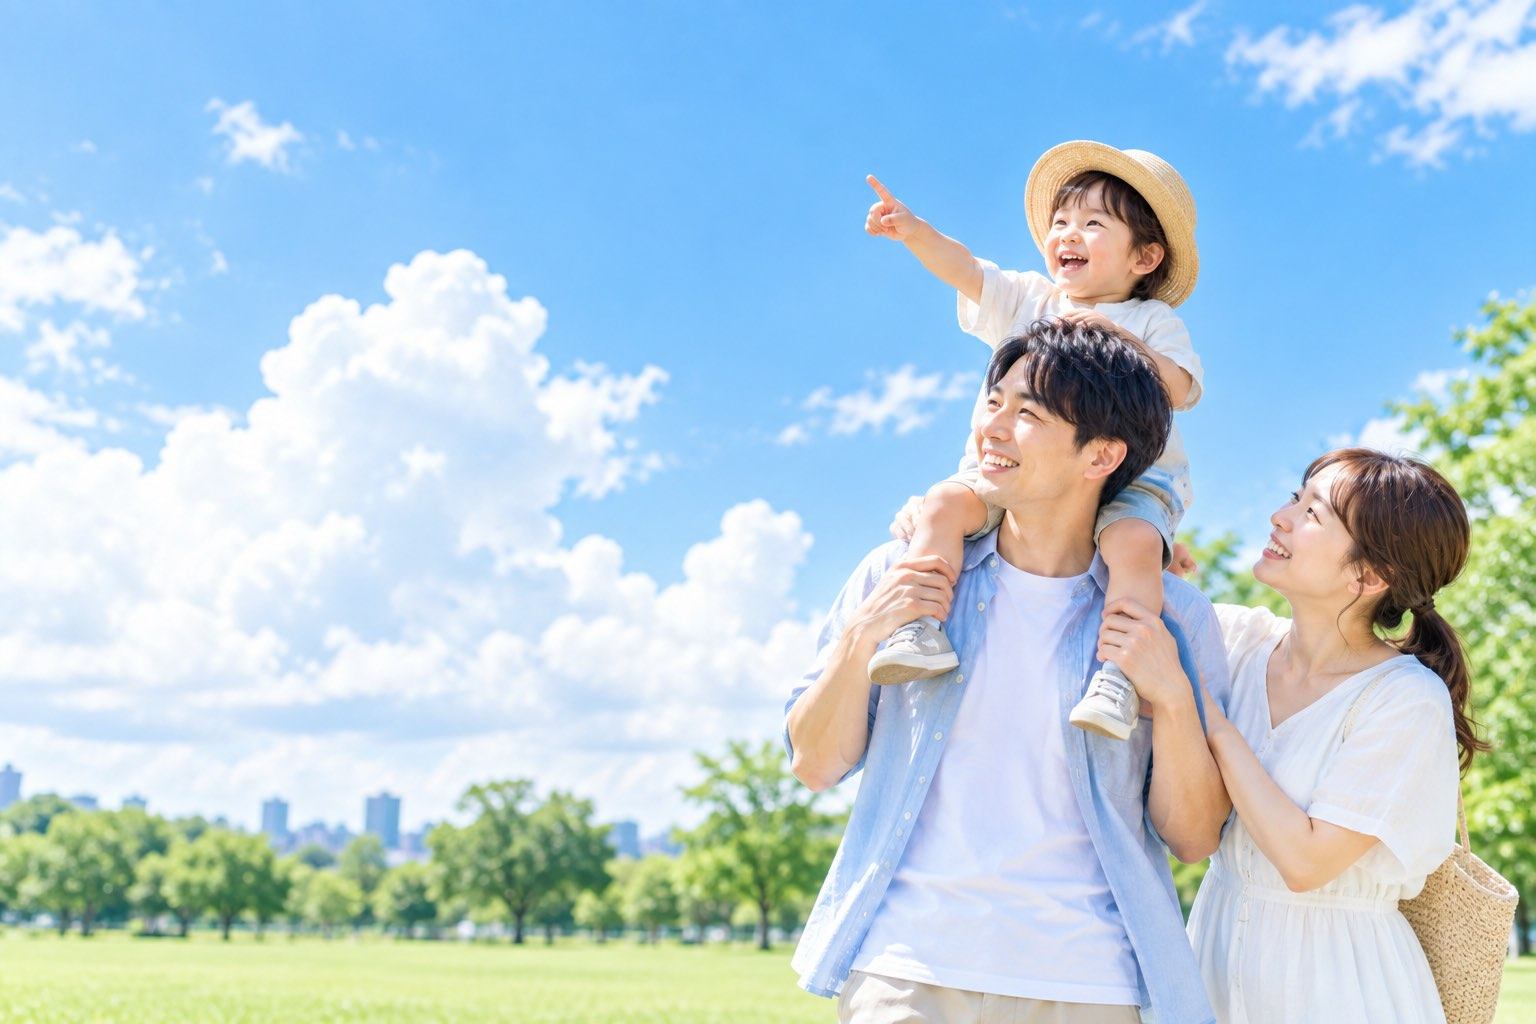
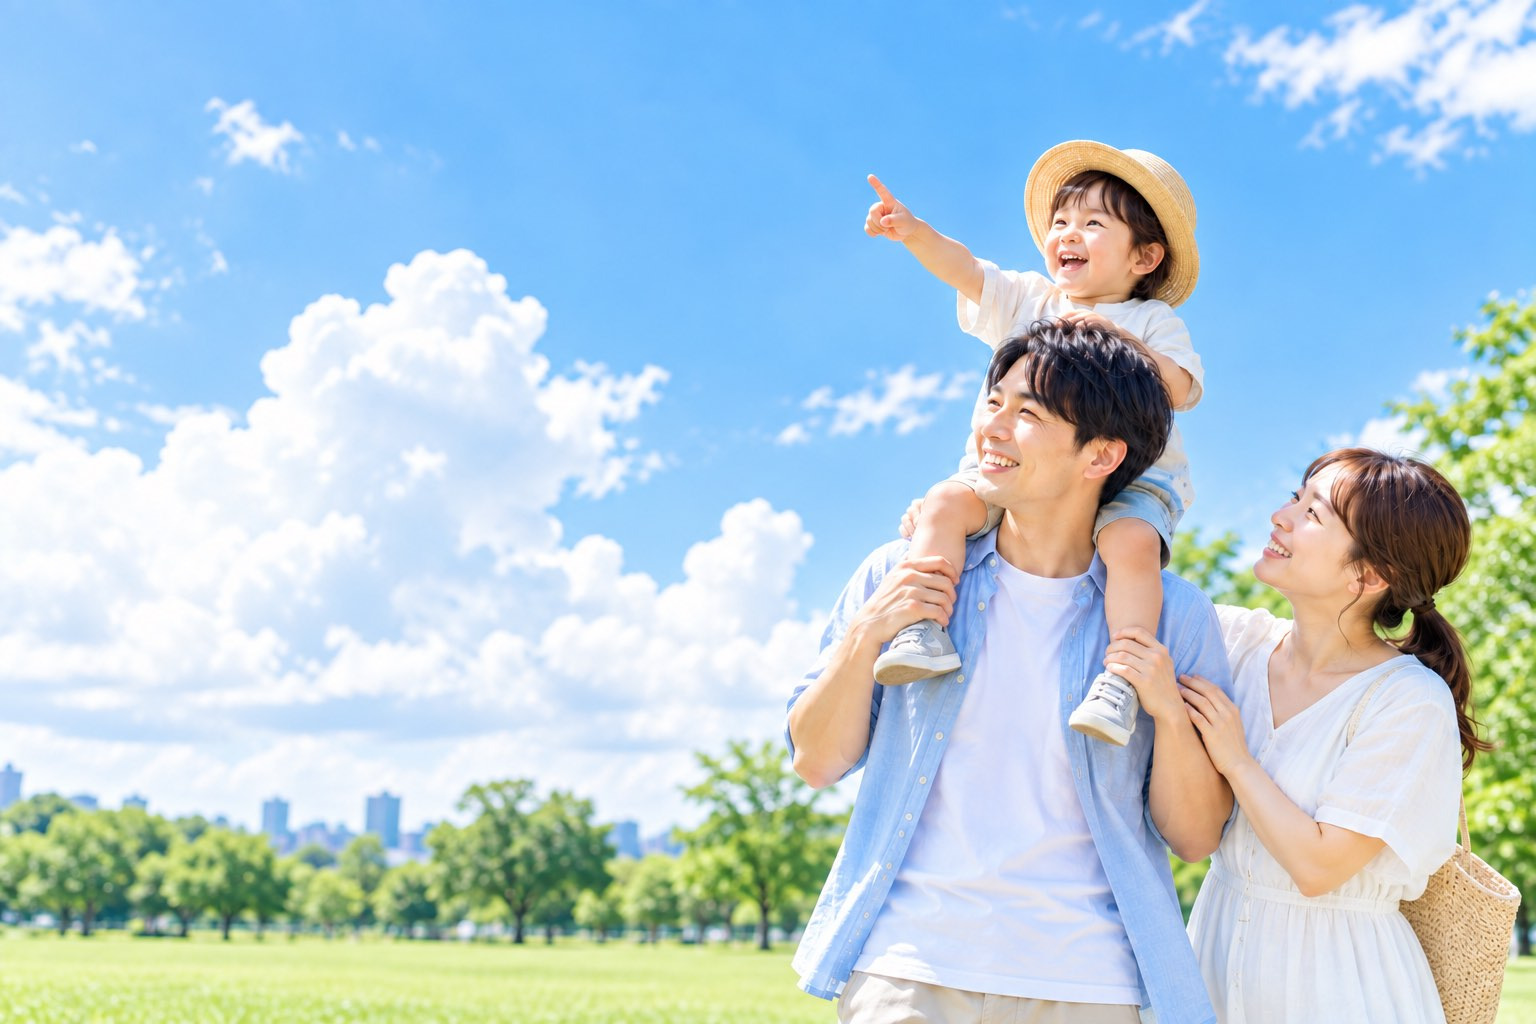
トップの季節の写真：夏の写真の、父親と母親の手が重なって不自然な部分を直した版に差し替える
父親の手（子どもの足首をつかむ）と、母親の手（父親の腕に添える）がくっついて見えていた（お客さまの指摘）。
その部分だけを画像生成で直した版にする。顔・服・構図は前のまま。

Claude-Session: https://claude.ai/code/session_01DkWFmwe3Z7eAywpshKupJG

diff --git a/motion/index.html b/motion/index.html
@@ -95,7 +95,7 @@
   <section class="fv" id="top">
     <div class="fv-photo">
       <img decoding="async" width="1536" height="1024" class="is-show" src="../images/life-spring.jpg?v=11091abb" alt="" fetchpriority="high" onerror="this.remove()">
-      <img loading="lazy" decoding="async" width="1536" height="1024" data-src="../images/hero-summer.jpg?v=618163a0" alt="">
+      <img loading="lazy" decoding="async" width="1536" height="1024" data-src="../images/hero-summer.jpg?v=9e2e7a62" alt="">
       <img loading="lazy" decoding="async" width="1536" height="1024" data-src="../images/life-autumn.jpg?v=6a05a14d" alt="">
       <img loading="lazy" decoding="async" width="1536" height="1024" data-src="../images/life-winter.jpg?v=59ed502c" alt="">
       <img loading="lazy" decoding="async" width="1536" height="1024" data-src="../images/life-spring2.jpg?v=c811887d" alt="">

diff --git a/index.html b/index.html
@@ -94,7 +94,7 @@
   <section class="fv" id="top">
     <div class="fv-photo">
       <img decoding="async" width="1536" height="1024" class="is-show" src="./images/life-spring.jpg?v=11091abb" alt="" fetchpriority="high" onerror="this.remove()">
-      <img loading="lazy" decoding="async" width="1536" height="1024" data-src="./images/hero-summer.jpg?v=618163a0" alt="">
+      <img loading="lazy" decoding="async" width="1536" height="1024" data-src="./images/hero-summer.jpg?v=9e2e7a62" alt="">
       <img loading="lazy" decoding="async" width="1536" height="1024" data-src="./images/life-autumn.jpg?v=6a05a14d" alt="">
       <img loading="lazy" decoding="async" width="1536" height="1024" data-src="./images/life-winter.jpg?v=59ed502c" alt="">
       <img loading="lazy" decoding="async" width="1536" height="1024" data-src="./images/life-spring2.jpg?v=c811887d" alt="">
